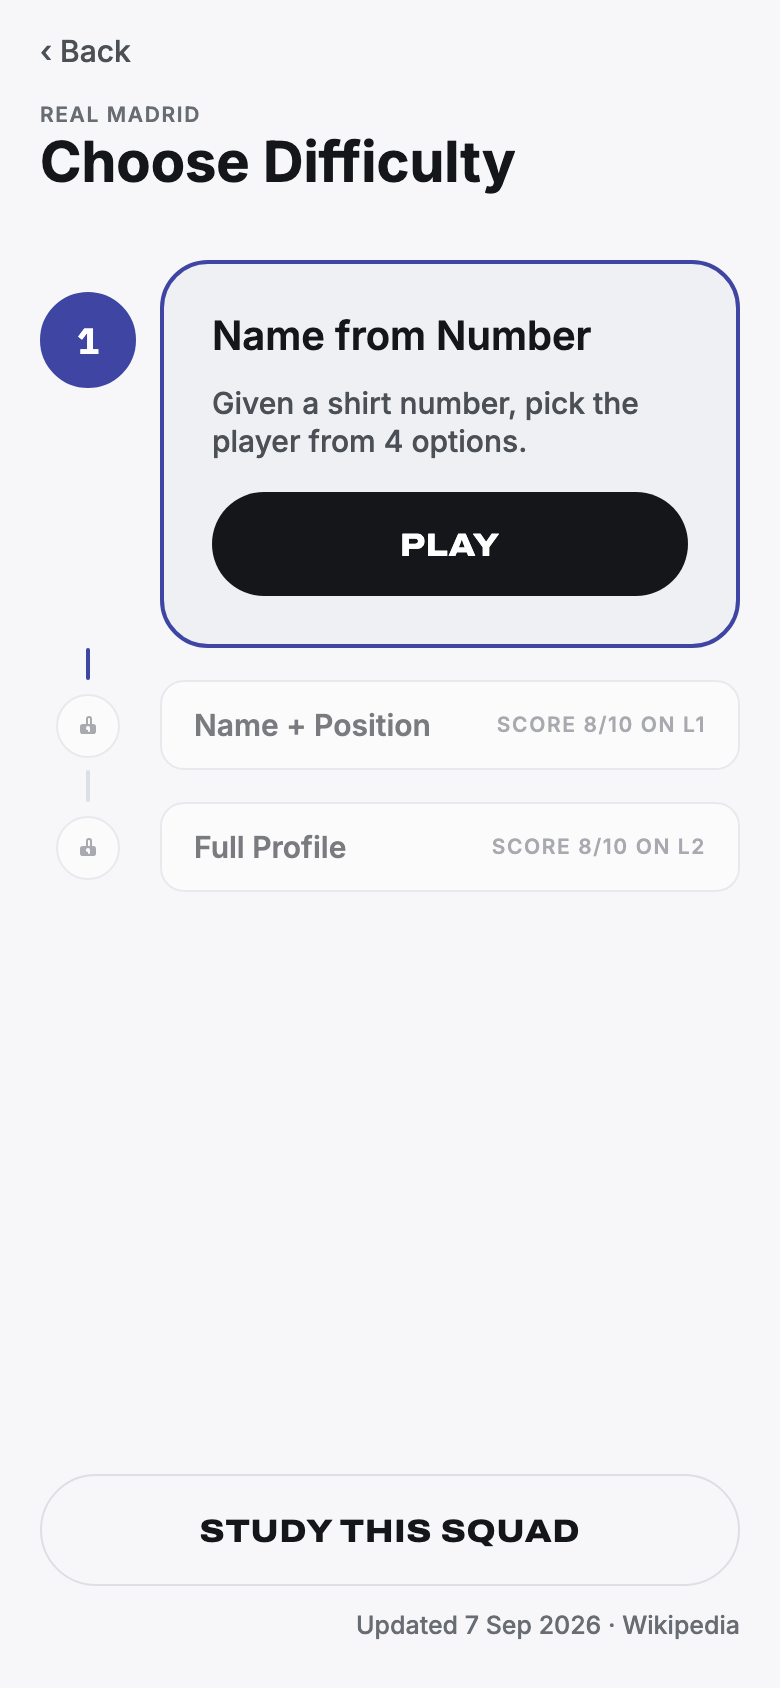
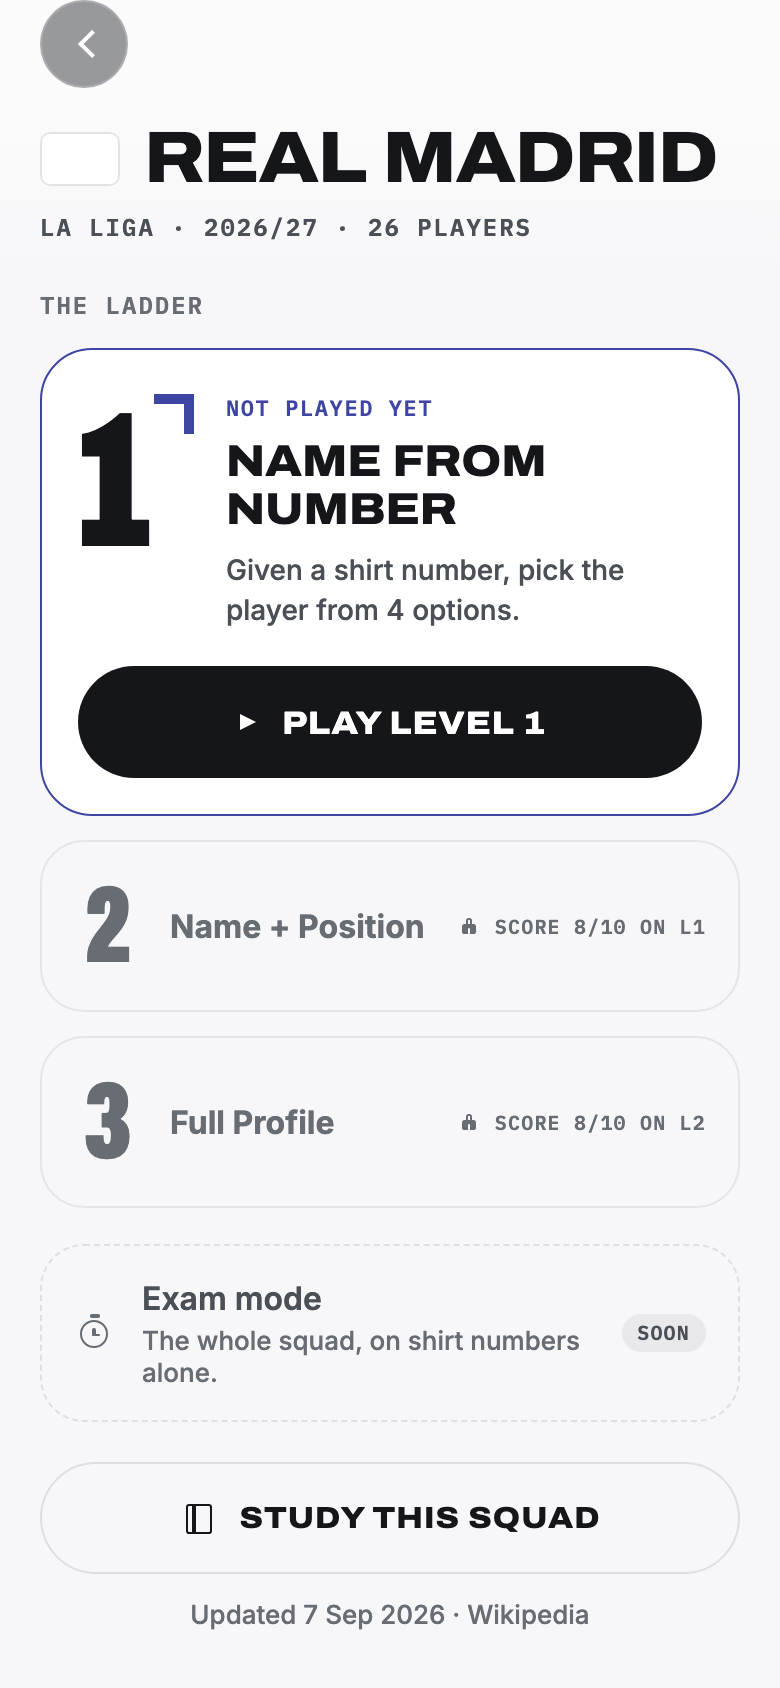
chore(design): Difficulty screens for a newcomer, part way and cleared (#178)

diff --git a/design/SCREENS.md b/design/SCREENS.md
@@ -106,33 +106,35 @@ flawless — see below). Route, file, and what it does.
 
 ## Captures
 
-| File                                       | Screen                               |
-| ------------------------------------------ | ------------------------------------ |
-| `screens/01-home.png`                      | Home                                 |
-| `screens/01a-about.png`                    | About                                |
-| `screens/01c-settings.png`                 | Settings                             |
-| `screens/01c-settings-end.png`             | Settings, scrolled to the end        |
-| `screens/01c-settings-language.png`        | Settings — language sheet            |
-| `screens/01d-licences.png`                 | Licences                             |
-| `screens/02-team-picker-clubs.png`         | Team picker, Clubs                   |
-| `screens/03-team-picker-nations.png`       | Team picker, Nations                 |
-| `screens/03b-team-picker-nations-jump.png` | Team picker, Nations, jumped to S    |
-| `screens/03c-team-picker-nations-uefa.png` | Team picker, Nations, UEFA           |
-| `screens/04-difficulty.png`                | Difficulty ladder                    |
-| `screens/05-study.png`                     | Study, cards                         |
-| `screens/05-study-list.png`                | Study, list                          |
-| `screens/05-study-hidden.png`              | Study, cards with Hide names on      |
-| `screens/06-question-l1.png`               | Question, level 1                    |
-| `screens/07-question-l2.png`               | Question, level 2                    |
-| `screens/08-question-l3.png`               | Question, level 3 — club part        |
-| `screens/08-question-l3-nationality.png`   | Question, level 3 — nationality part |
-| `screens/09-results.png`                   | Results — failed round               |
-| `screens/09-results-passed.png`            | Results — passed, 9/10               |
-| `screens/09-results-flawless.png`          | Results — a la escuadra, 10/10       |
-| `screens/09-results-share.png`             | Results — share sheet, Image         |
-| `screens/09-results-share-text.png`        | Results — share sheet, Text          |
-| `screens/09-results-share-flawless.png`    | Results — share sheet, a la escuadra |
-| `screens/09-results-credits.png`           | Results — photo credits sheet        |
+| File                                       | Screen                                        |
+| ------------------------------------------ | --------------------------------------------- |
+| `screens/01-home.png`                      | Home                                          |
+| `screens/01a-about.png`                    | About                                         |
+| `screens/01c-settings.png`                 | Settings                                      |
+| `screens/01c-settings-end.png`             | Settings, scrolled to the end                 |
+| `screens/01c-settings-language.png`        | Settings — language sheet                     |
+| `screens/01d-licences.png`                 | Licences                                      |
+| `screens/02-team-picker-clubs.png`         | Team picker, Clubs                            |
+| `screens/03-team-picker-nations.png`       | Team picker, Nations                          |
+| `screens/03b-team-picker-nations-jump.png` | Team picker, Nations, jumped to S             |
+| `screens/03c-team-picker-nations-uefa.png` | Team picker, Nations, UEFA                    |
+| `screens/04-difficulty.png`                | Difficulty ladder, a newcomer (club)          |
+| `screens/04b-difficulty-nation.png`        | Difficulty, a nation part way up (L3 focused) |
+| `screens/04c-difficulty-cleared.png`       | Difficulty, a club with every level cleared   |
+| `screens/05-study.png`                     | Study, cards                                  |
+| `screens/05-study-list.png`                | Study, list                                   |
+| `screens/05-study-hidden.png`              | Study, cards with Hide names on               |
+| `screens/06-question-l1.png`               | Question, level 1                             |
+| `screens/07-question-l2.png`               | Question, level 2                             |
+| `screens/08-question-l3.png`               | Question, level 3 — club part                 |
+| `screens/08-question-l3-nationality.png`   | Question, level 3 — nationality part          |
+| `screens/09-results.png`                   | Results — failed round                        |
+| `screens/09-results-passed.png`            | Results — passed, 9/10                        |
+| `screens/09-results-flawless.png`          | Results — a la escuadra, 10/10                |
+| `screens/09-results-share.png`             | Results — share sheet, Image                  |
+| `screens/09-results-share-text.png`        | Results — share sheet, Text                   |
+| `screens/09-results-share-flawless.png`    | Results — share sheet, a la escuadra          |
+| `screens/09-results-credits.png`           | Results — photo credits sheet                 |
 
 The four team picker captures are a fresh install, so no row has a score: every row
 ends in a chevron. `02-team-picker-clubs.png` is Clubs with All picked: the caption
